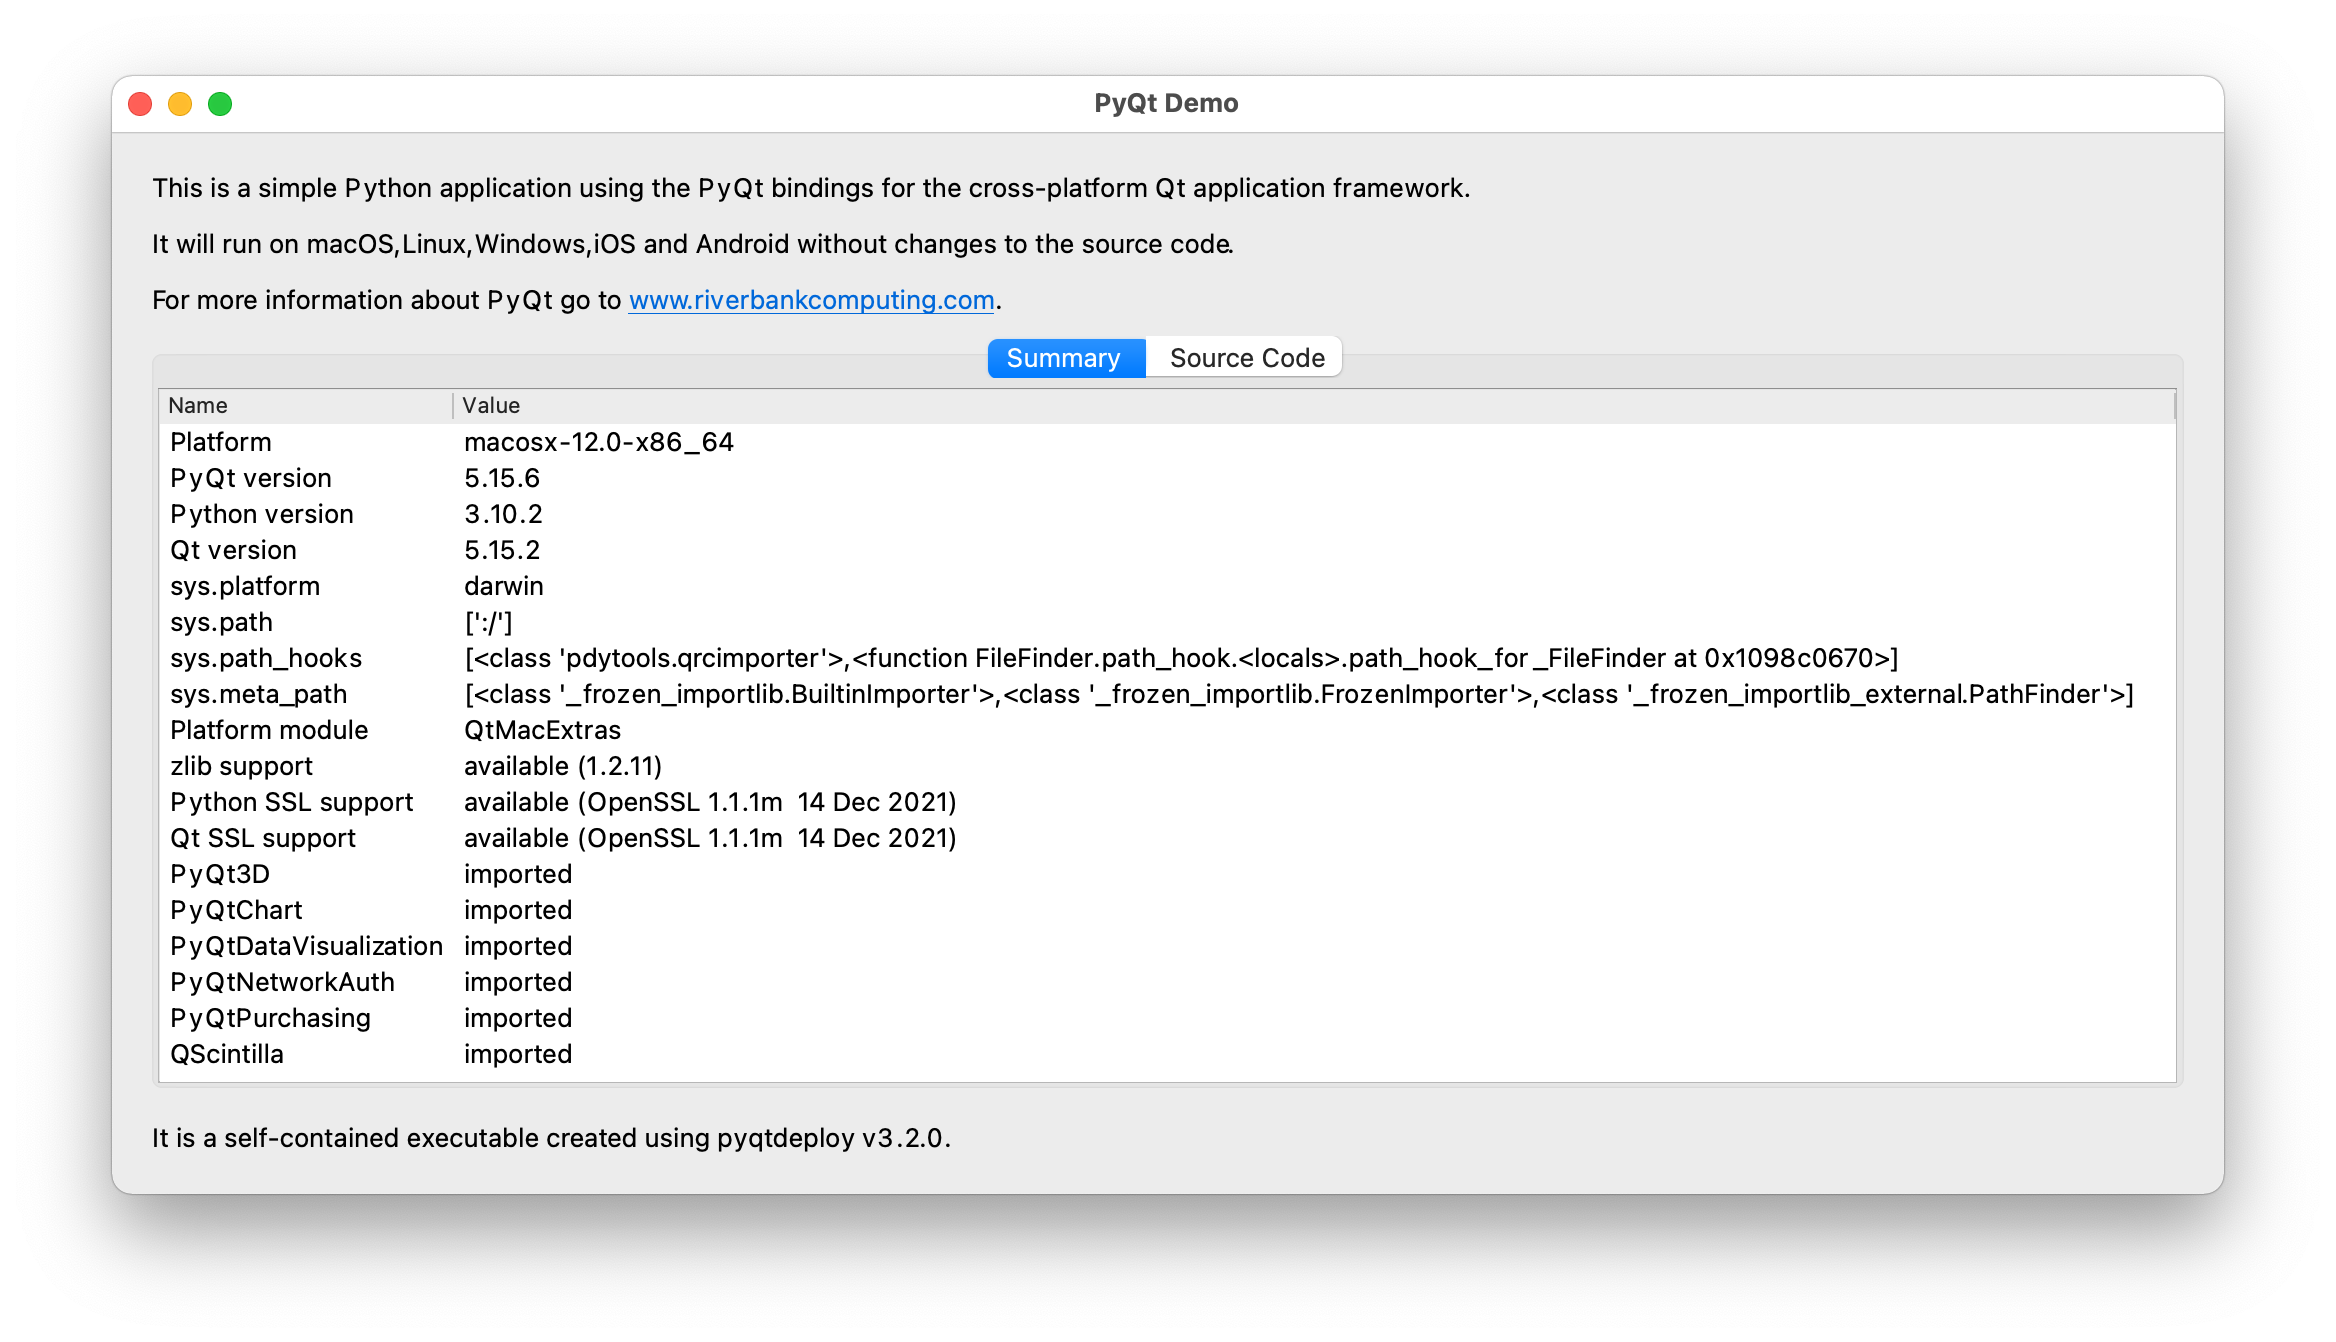
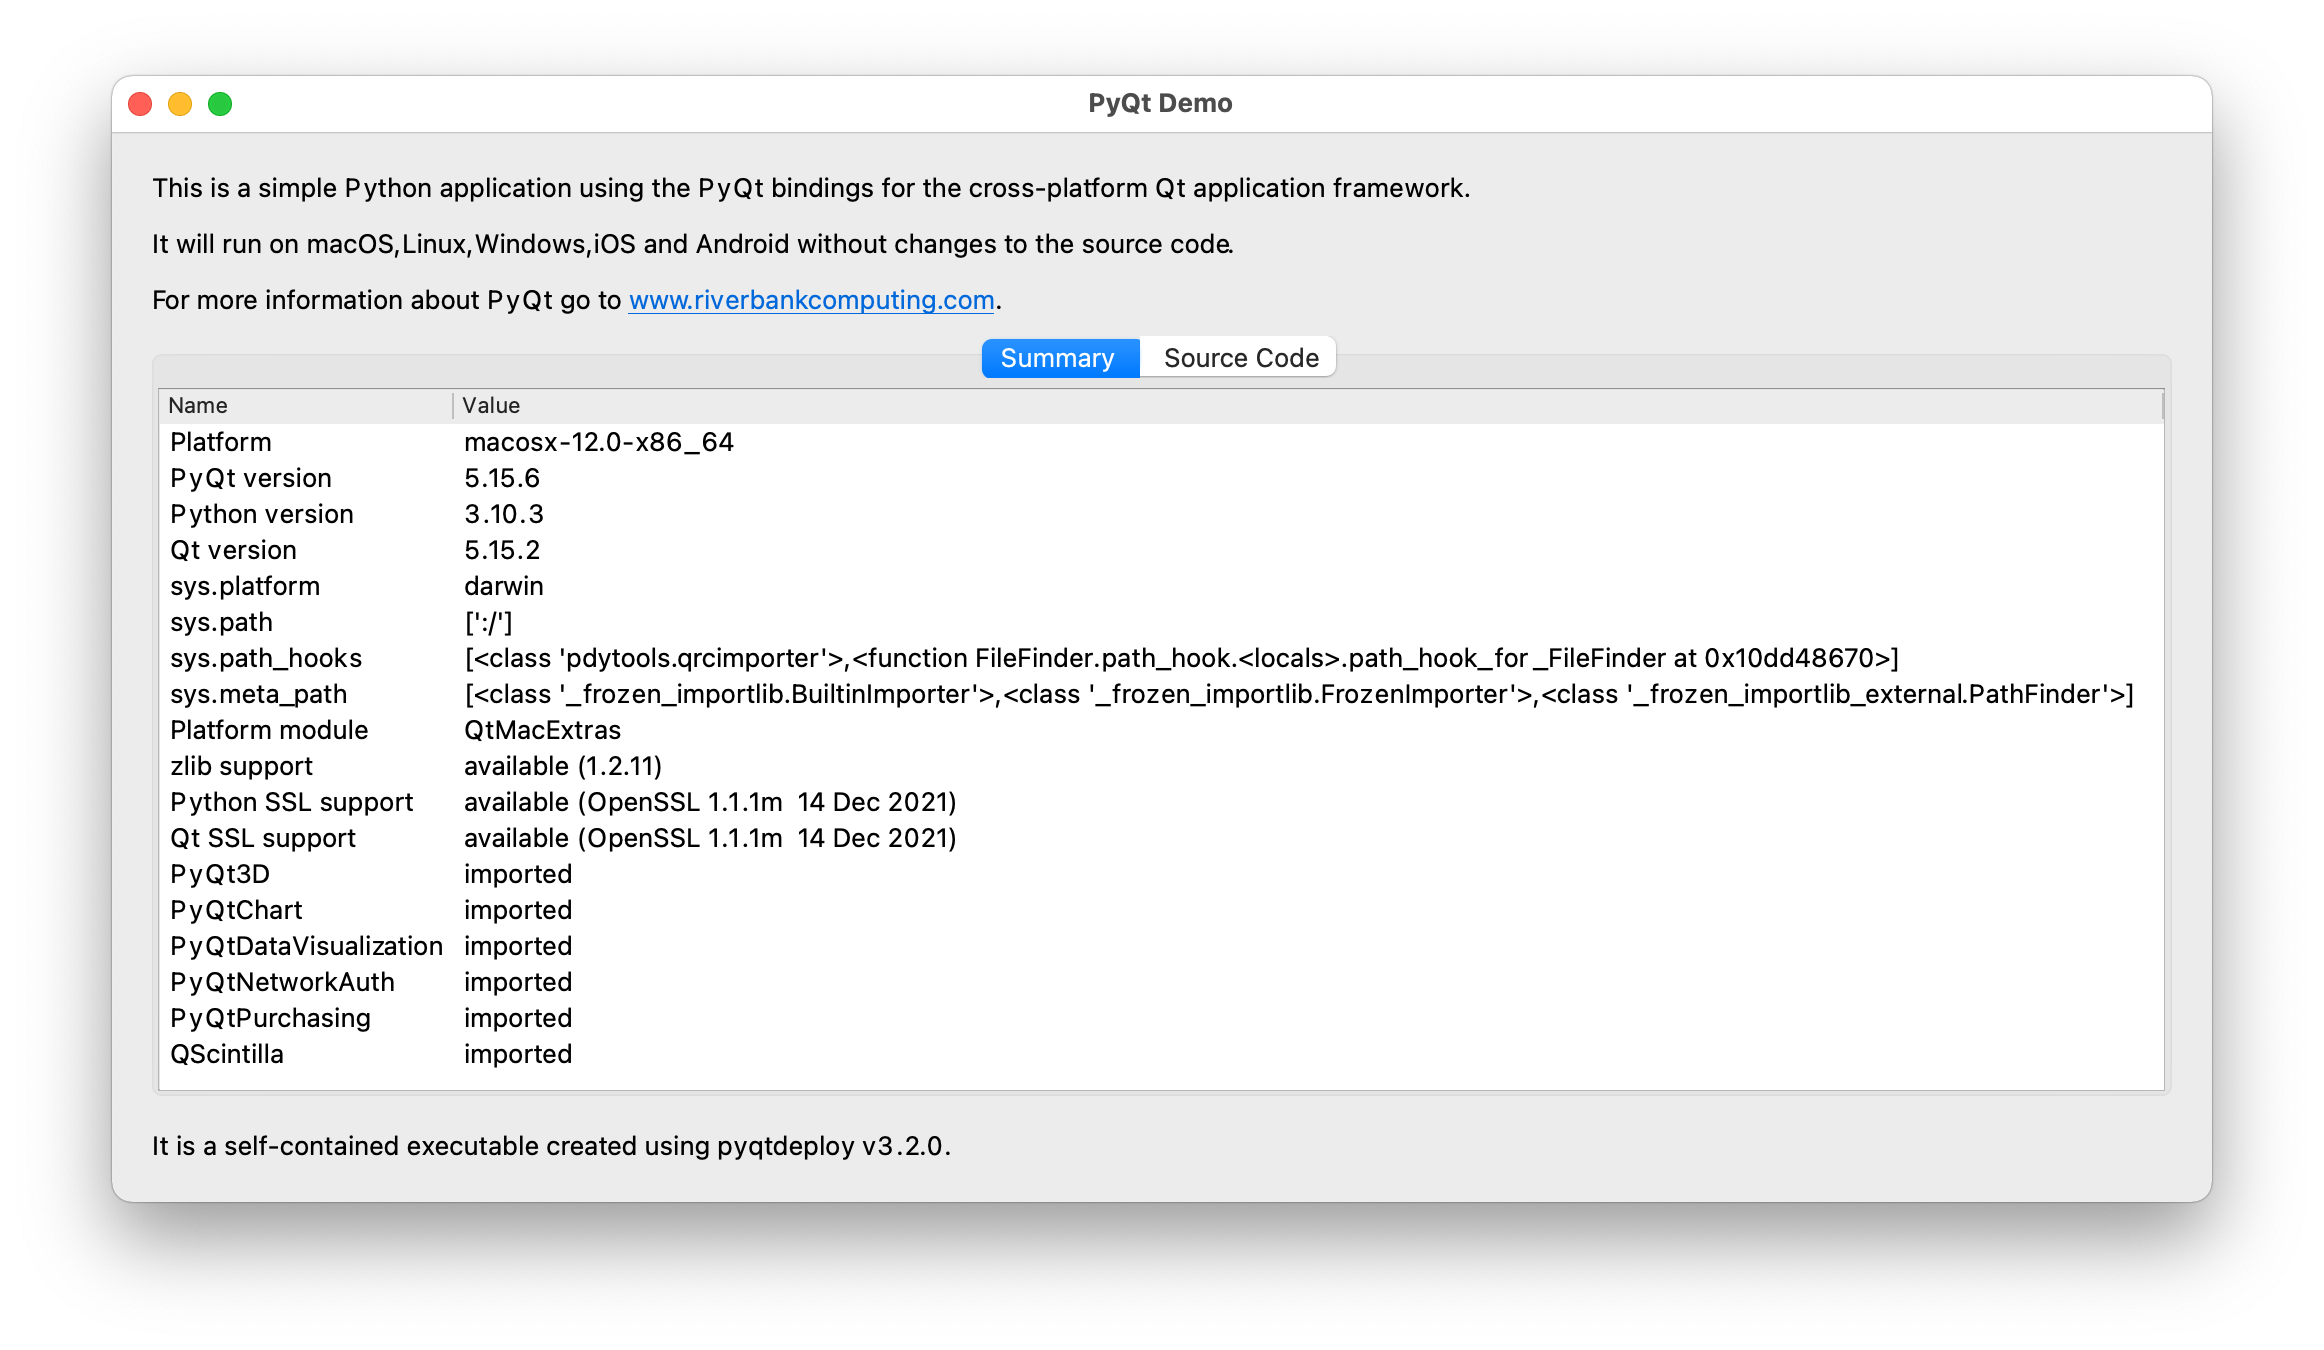
Updated the demo to use Python v3.10.3.

diff --git a/doc/demo.rst b/doc/demo.rst
@@ -140,7 +140,7 @@ macOS
 
 **Host platform used:** macOS Monterey (v12.0.1)
 
-**Development tools used:** Xcode v13.2.1
+**Development tools used:** Xcode v12.4
 
 **Python SSL support implemented:** statically linked OpenSSL.
 
